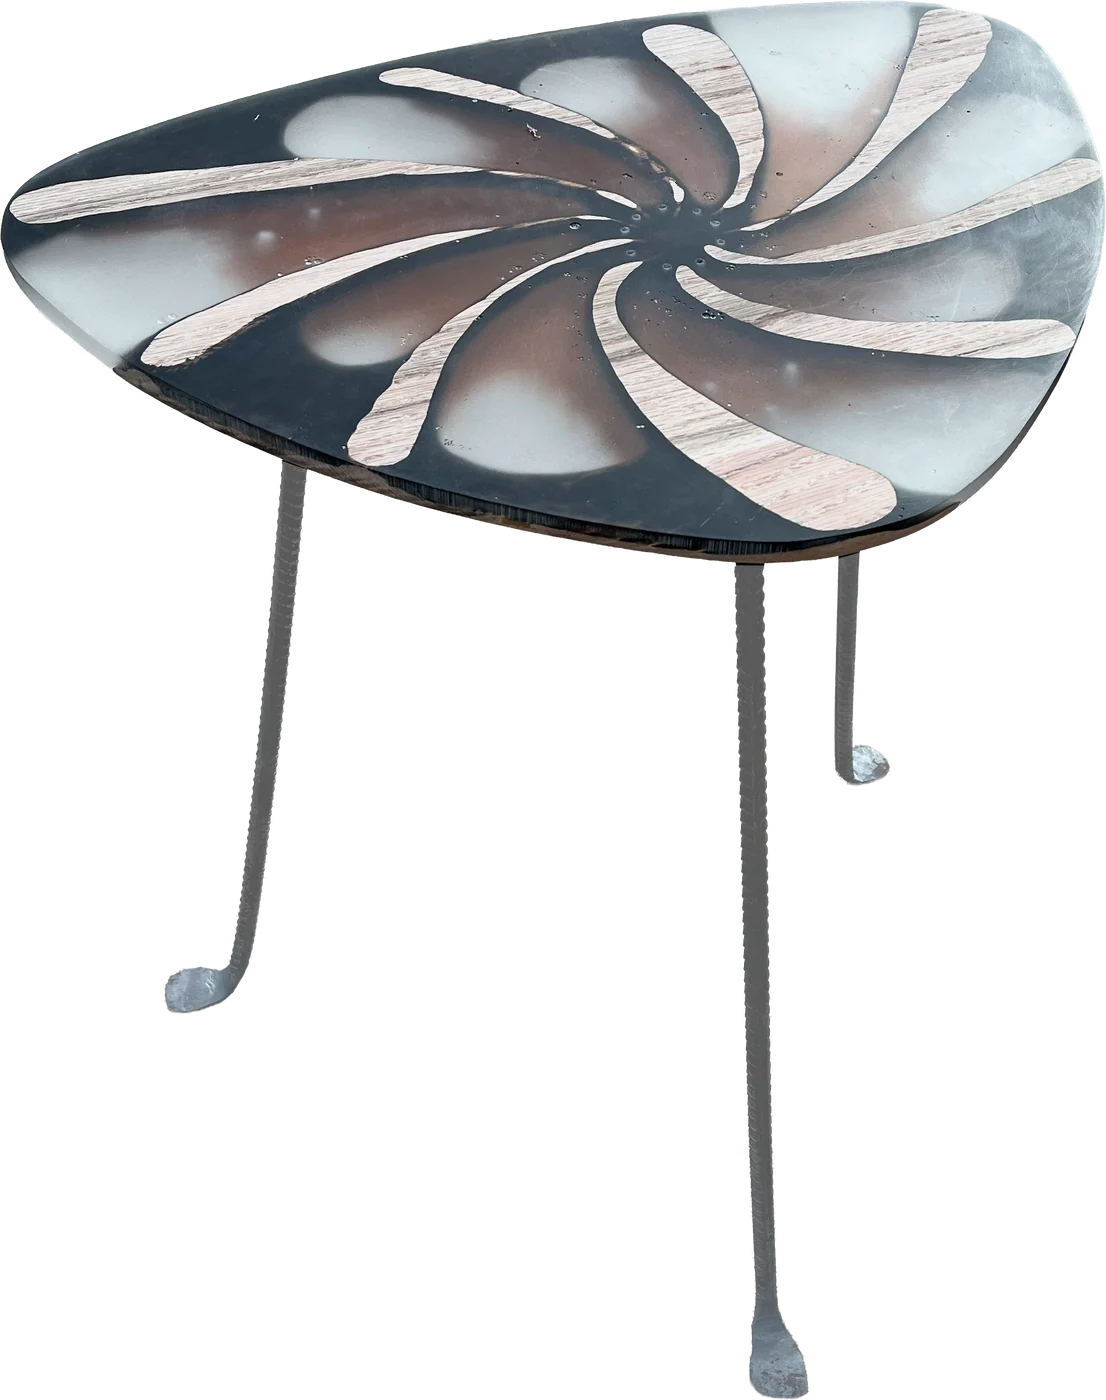
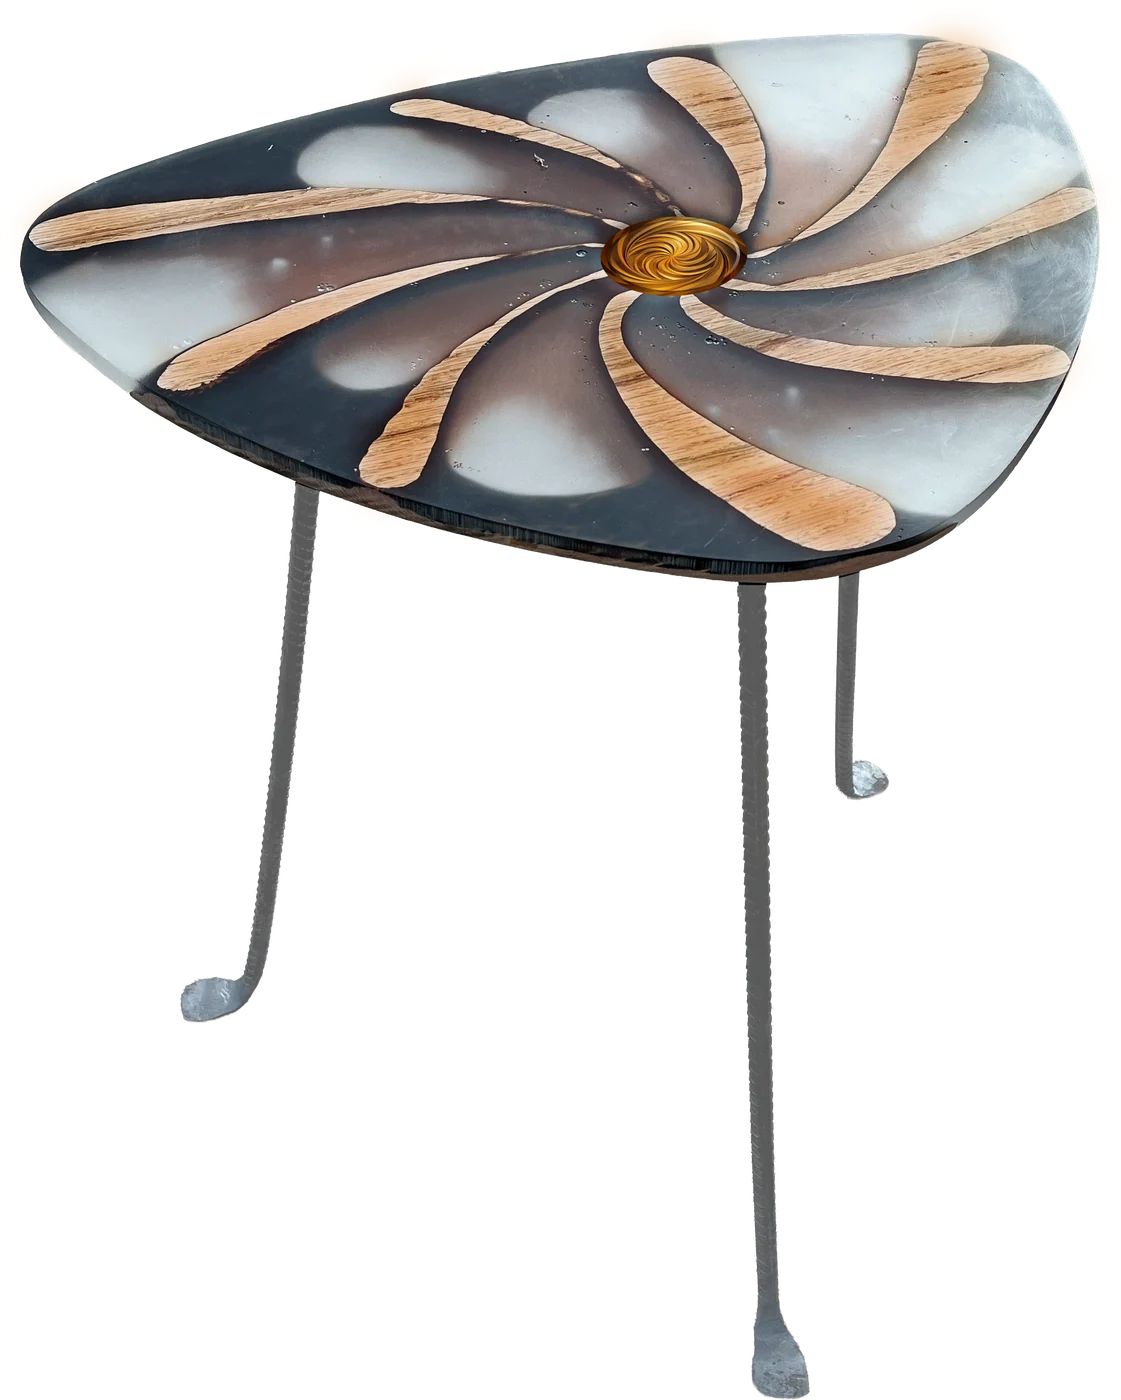
New table image with multiply blend (normal in dark mode)
Claude-Session: https://claude.ai/code/session_017rPBuEWkVQ1msUzwdUse45

Changed region(s): [[0.0, 0.0, 1.0, 1.0]]

diff --git a/index.html b/index.html
@@ -25,13 +25,15 @@
   p{opacity:.7;margin:0;padding:0 16px}
   /* Name block on top, table centred beneath it at a medium size */
   .name{display:grid;gap:1rem;justify-items:center}
-  .table{order:1;justify-self:center;height:min(34vh,320px);width:auto;max-width:calc(100% - 32px);margin-top:.75rem}
+  .table{order:1;justify-self:center;height:min(34vh,320px);width:auto;max-width:calc(100% - 32px);margin-top:.75rem;mix-blend-mode:multiply}
+  /* Multiply would turn the table almost black on the dark background, so dark mode shows it normally */
+  @media (prefers-color-scheme:dark){.table{mix-blend-mode:normal}}
 </style>
 </head>
 <body>
 <video id="stage" src="assets/jady-spin.mp4" poster="assets/jady-spin-poster.jpg" autoplay muted loop playsinline aria-hidden="true"></video>
 <main>
-  <img class="table" src="assets/table.webp" alt="Swirl side table in resin and oak with forged steel legs" width="1106" height="1400">
+  <img class="table" src="assets/table.webp" alt="Swirl side table in resin and oak with forged steel legs" width="1121" height="1400">
   <div class="name">
     <h1>Studio Jady</h1>
     <p>Coming soon.</p>
